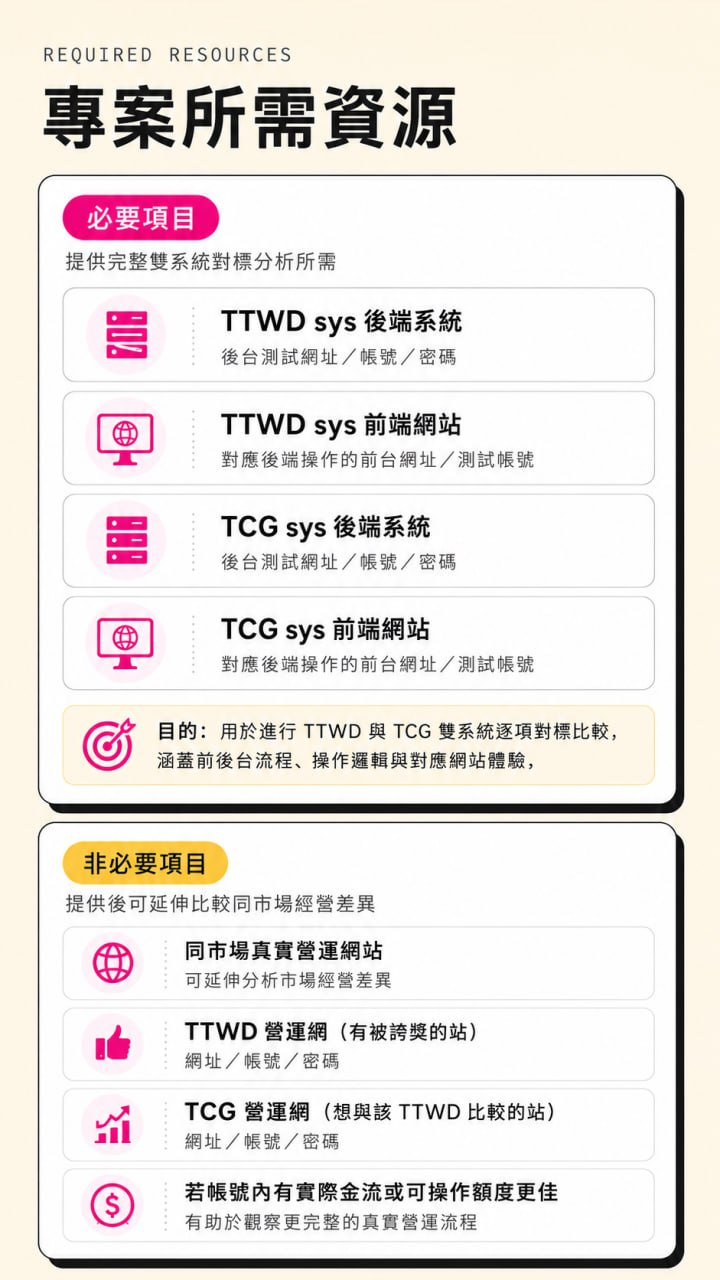
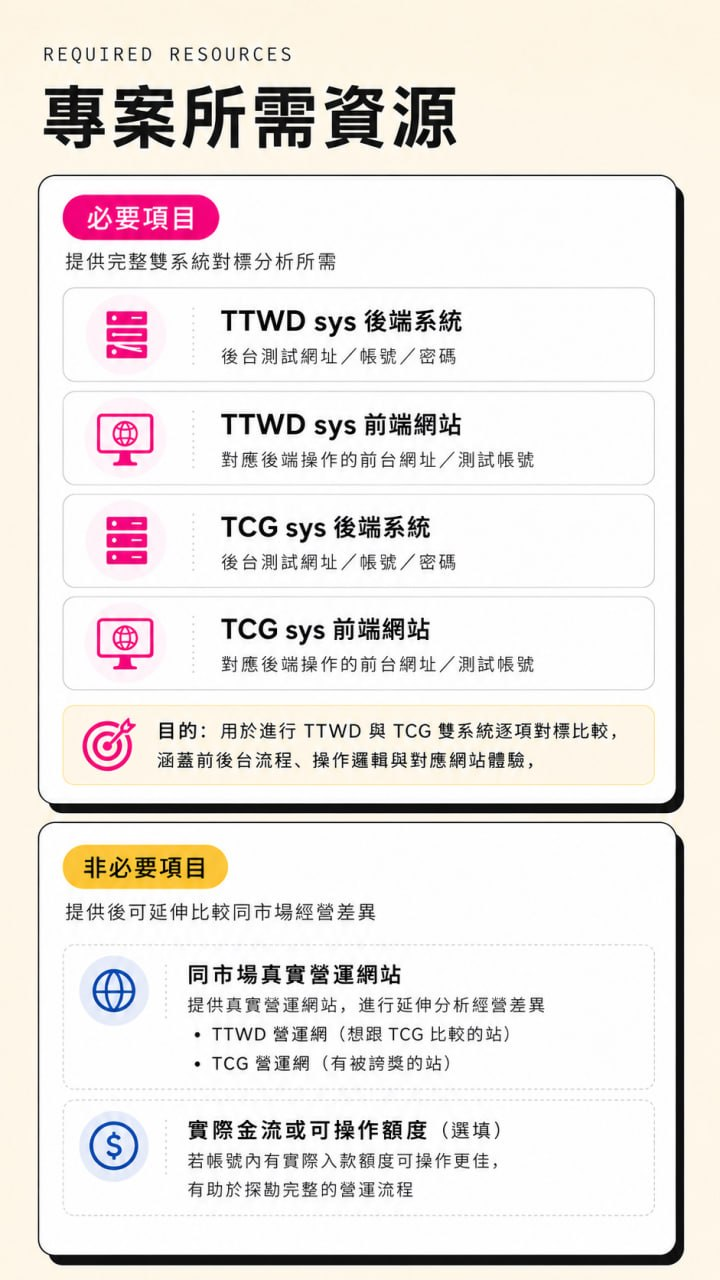
fix: 更新圖5並修正非必要資源結構（TTWD/TCG 營運網合併＋金流說明調整）

diff --git a/index.html b/index.html
@@ -466,7 +466,7 @@ const dimensions = [
   ['13','自動化機制','Operational Automation'],
 ];
 const reqItems = [['dns','TTWD sys 後端系統｜後台測試網址／帳號／密碼'],['monitor','TTWD sys 前端網站｜對應後端操作的前台網址／測試帳號'],['storage','TCG sys 後端系統｜後台測試網址／帳號／密碼'],['language','TCG sys 前端網站｜對應後端操作的前台網址／測試帳號']];
-const optItems = [['public','同市場真實營運網站｜可延伸分析市場經營差異'],['thumb_up','TTWD 營運網（有被誇獎的站）｜網址／帳號／密碼'],['trending_up','TCG 營運網（想與該 TTWD 比較的站）｜網址／帳號／密碼'],['paid','若帳號內有實際金流或可操作額度更佳｜有助於觀察更完整的真實營運流程']];
+const optItems = [['public','同市場真實營運網站｜提供真實營運網站，進行延伸分析經營差異<br><span style="opacity:.7;font-size:12px;">• TTWD 營運網（想跟 TCG 比較的站）<br>• TCG 營運網（有被誇獎的站）</span>'],['paid','實際金流或可操作額度（選填）｜若帳號內有實際入款額度可操作更佳，有助於探勘完整的營運流程']];
 const deliverables = [['description','完整分析報告','系統性對標報告'],['present_to_all','簡報呈報','正式報告＋主管層級呈報說明'],['manage_search','深入延伸分析','呈報後一次性深入延伸分析服務']];
 const values = ['協助決策層快速掌握市場與產品差距','讓產品團隊具備明確的優化依據','降低內部反覆討論與試錯成本','將零散競品觀察轉化為系統化策略','加速後續產品優化與開發排程討論'];
 const pkg = [['description','完整分析報告','系統性對標報告'],['present_to_all','呈報說明','簡報＋主管層說明'],['manage_search','延伸分析','呈報後加深']];
